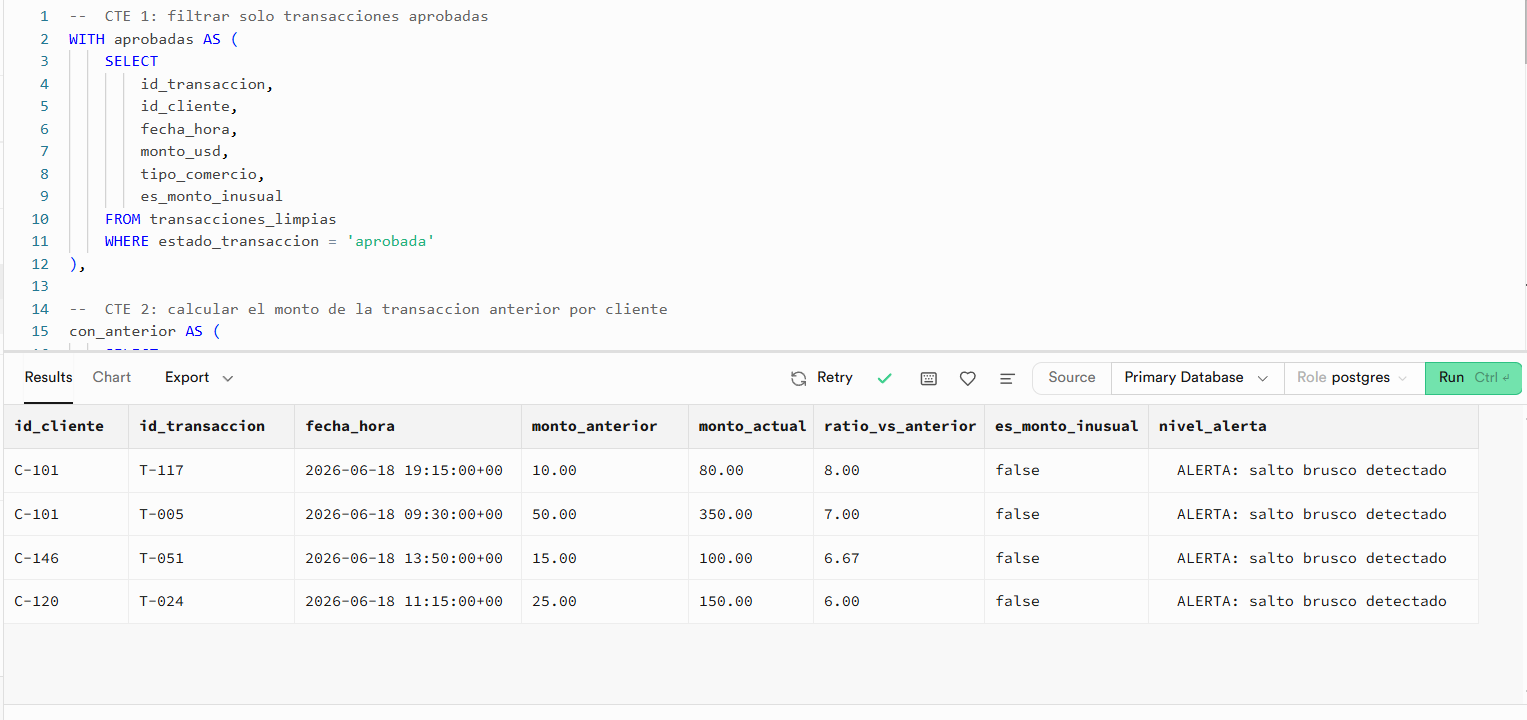
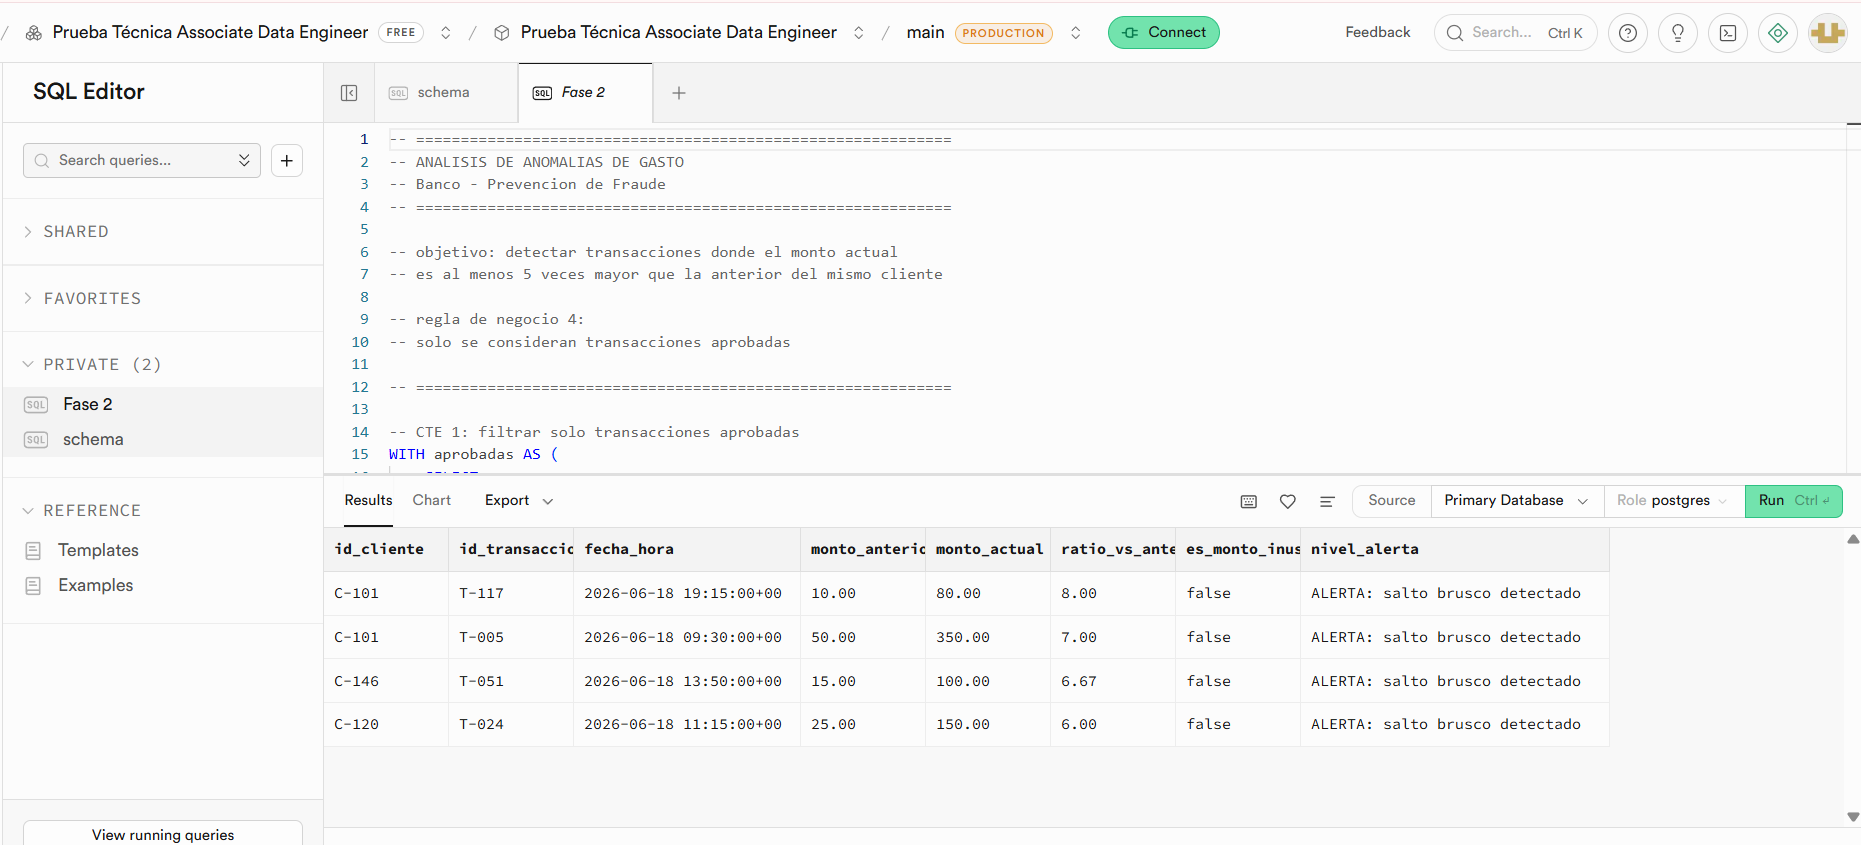
version final

diff --git a/airflow/dag_transacciones.py b/airflow/dag_transacciones.py
@@ -1,111 +1,74 @@
 """
 dag_transacciones.py
-────────────────────
-DAG de Apache Airflow que orquesta el pipeline diario de detección
-de anomalías de gasto del área de prevención de fraude.
-
-Programación: todos los días a las 11:30 PM (23:30)
-Dependencia estricta: la carga a la BD y la consulta SQL
-solo se ejecutan si la transformación Python finalizó con éxito.
+--------------------
+DAG de Apache Airflow para pipeline de fraude
 """
 
-from datetime import datetime, timedelta
+from datetime import datetime, timedelta  # imports de tiempo y retries
 
-from airflow import DAG
-from airflow.operators.python import PythonOperator
-from airflow.operators.bash import BashOperator
-from airflow.providers.postgres.operators.postgres import PostgresOperator
+from airflow import DAG  # clase principal del DAG
+from airflow.operators.bash import BashOperator  # operador para comandos bash
+from airflow.providers.postgres.operators.postgres import PostgresOperator  # operador SQL en postgres
 
 
-# ── Argumentos por defecto del DAG ────────────────────────────────────────────
+# configuracion general del DAG
 default_args = {
-    "owner": "data_engineering",
-    "depends_on_past": False,                      # no depende de ejecuciones anteriores
-    "email": ["[email redacted]"],
-    "email_on_failure": True,                      # notificar si falla
-    "email_on_retry": False,
-    "retries": 2,                                  # reintentar 2 veces ante fallo
-    "retry_delay": timedelta(minutes=5),           # esperar 5 min entre reintentos
-    "execution_timeout": timedelta(minutes=30),    # máximo 30 min por tarea
+    "owner": "data_engineering",  # propietario del pipeline
+    "depends_on_past": False,  # no depende de ejecuciones anteriores
+    "email": ["[email redacted]"],  # correo de alertas
+    "email_on_failure": True,  # notifica si falla
+    "email_on_retry": False,  # no notifica en reintentos
+    "retries": 2,  # numero de reintentos
+    "retry_delay": timedelta(minutes=5),  # tiempo entre reintentos
+    "execution_timeout": timedelta(minutes=30),  # timeout de tarea
 }
 
 
-# ── Definición del DAG ─────────────────────────────────────────────────────────
+# definicion del DAG principal
 with DAG(
-    dag_id="pipeline_fraude_diario",
-    description="Pipeline ETL diario: CSV crudo → limpieza → Supabase → análisis de anomalías",
-    schedule="30 23 * * *",                        # 23:30 todos los días
-    start_date=datetime(2026, 1, 1),
-    catchup=False,                                 # no ejecutar fechas pasadas
-    tags=["fraude", "etl", "diario"],
-    default_args=default_args,
+    dag_id="pipeline_fraude_diario",  # id del dag
+    description="Pipeline ETL diario de fraude",  # descripcion
+    schedule="30 23 * * *",  # ejecucion diaria 23:30
+    start_date=datetime(2026, 1, 1),  # fecha inicio
+    catchup=False,  # no ejecutar datos historicos
+    default_args=default_args,  # argumentos generales
+    tags=["fraude", "etl"],  # etiquetas del dag
 ) as dag:
 
-    # ── TAREA 1: Descargar / verificar que el CSV esté disponible ─────────────
+    # tarea 1: validar existencia del archivo csv
     verificar_csv = BashOperator(
-        task_id="verificar_archivo_csv",
-        bash_command=(
-            "FILE=/opt/airflow/fraude_pipeline/data/transacciones_diarias.csv; "
-            "if [ ! -f \"$FILE\" ]; then "
-            "  echo 'ERROR: Archivo no encontrado: $FILE'; exit 1; "
-            "else "
-            "  echo \"Archivo encontrado: $(wc -l < $FILE) líneas.\"; "
-            "fi"
-        ),
+        task_id="verificar_archivo_csv",  # id de tarea
+        bash_command="""
+        FILE=data/transacciones_diarias.csv  # ruta del archivo
+
+        if [ ! -f "$FILE" ]; then  # si no existe archivo
+            echo "ERROR archivo no encontrado"  # mensaje error
+            exit 1  # falla la tarea
+        fi
+
+        echo "archivo encontrado"  # confirma existencia
+        """,
     )
 
-    # ── TAREA 2: Transformación Python (reglas de negocio 1, 2 y 3) ──────────
-    #   Se importa la función main() del script modularizado.
-    def ejecutar_transformacion():
-        """Wrapper que importa y ejecuta el pipeline de transformación."""
-        import sys
-        sys.path.insert(0, "/opt/airflow/fraude_pipeline/src")
-        from pipeline import extraer_datos, transformar
-
-        CSV_PATH = "/opt/airflow/fraude_pipeline/data/transacciones_diarias.csv"
-        df_crudo  = extraer_datos(CSV_PATH)
-        df_limpio = transformar(df_crudo)
-
-        # Persistir el resultado en Parquet para la siguiente tarea
-        salida = "/opt/airflow/fraude_pipeline/data/transacciones_limpias.parquet"
-        df_limpio.to_parquet(salida, index=False)
-        print(f"[AIRFLOW] DataFrame limpio guardado en: {salida}")
-
-    transformacion_python = PythonOperator(
-        task_id="transformacion_python",
-        python_callable=ejecutar_transformacion,
+    # tarea 2: ejecutar transformacion del pipeline
+    transformacion_python = BashOperator(
+        task_id="transformacion_python",  # id tarea
+        bash_command="python src/pipeline.py",  # ejecuta ETL
     )
 
-    # ── TAREA 3: Carga a Supabase (PostgreSQL) ────────────────────────────────
-    def ejecutar_carga():
-        """Carga el Parquet intermedio a Supabase."""
-        import sys, pandas as pd
-        sys.path.insert(0, "/opt/airflow/fraude_pipeline/src")
-        from cargar_supabase import conectar_supabase, cargar_a_supabase
-
-        salida = "/opt/airflow/fraude_pipeline/data/transacciones_limpias.parquet"
-        df_limpio = pd.read_parquet(salida)
-
-        supabase = conectar_supabase()
-        cargar_a_supabase(df_limpio, supabase)
-
-    carga_supabase = PythonOperator(
-        task_id="carga_supabase",
-        python_callable=ejecutar_carga,
+    # tarea 3: cargar datos a supabase
+    carga_supabase = BashOperator(
+        task_id="carga_supabase",  # id tarea
+        bash_command="python src/cargar_supabase.py",  # carga postgres
     )
 
-    # ── TAREA 4: Consulta SQL analítica de anomalías ──────────────────────────
-    #   Usa la conexión "supabase_postgres" configurada en Airflow Connections.
+    # tarea 4: ejecutar consulta de anomalas en sql
     analisis_anomalias = PostgresOperator(
-        task_id="analisis_anomalias_sql",
-        postgres_conn_id="supabase_postgres",          # configurar en Airflow UI
-        sql="sql/consulta_anomalias.sql",              # relativo al folder airflow/dags/
-        autocommit=True,
+        task_id="analisis_anomalias_sql",  # id tarea
+        postgres_conn_id="supabase_postgres",  # conexion airflow
+        sql="sql/consulta_anomalias.sql",  # archivo sql
+        autocommit=True,  # commit automatico
     )
 
-    # ── DEPENDENCIAS: define el orden de ejecución ────────────────────────────
-    #
-    #   verificar_csv → transformacion_python → carga_supabase → analisis_anomalias
-    #
-    #   Si cualquier tarea falla, las siguientes NO se ejecutan.
-    verificar_csv >> transformacion_python >> carga_supabase >> analisis_anomalias
+    # orden de ejecucion del pipeline
+    verificar_csv >> transformacion_python >> carga_supabase >> analisis_anomalias  # flujo secuencial

diff --git a/src/pipeline.py b/src/pipeline.py
@@ -1,12 +1,9 @@
 """
 pipeline.py
 ───────────
-Pipeline de Datos - Prevención de Fraude
+Pipeline de Datos - Prevencion de Fraude
 Banco: Detección de Anomalías de Gasto
 
-Descripcion: Script modularizado que carga el CSV crudo, aplica
-             las reglas de negocio (1, 2 y 3) y persiste el resultado
-             en Parquet para que la fase de carga lo pueda cargar
 """
 
 import os
@@ -17,23 +14,47 @@ from dotenv import load_dotenv
 load_dotenv()
 
 CSV_PATH = os.getenv("CSV_PATH", "data/transacciones_diarias.csv")
+MONTO_INUSUAL = 1500
+
+COLUMNAS_REQUERIDAS = [
+    "id_transaccion",
+    "id_cliente",
+    "fecha_hora",
+    "monto_usd",
+    "tipo_comercio",
+    "estado_transaccion"
+]
 if not os.path.exists(CSV_PATH):
     raise FileNotFoundError(f"No se encontro el archivo: {CSV_PATH}")
 
 # FASE 1 – EXTRACCION
-
 
 def extraer_datos(ruta_csv: str) -> pd.DataFrame:
     """
     Carga el archivo CSV crudo y devuelve un DataFrame.
     Convierte fecha_hora a tipo datetime para operaciones ordenadas.
     """
-    print(f"[EXTRACCIÓN] Leyendo archivo: {ruta_csv}")
-    df = pd.read_csv(ruta_csv)
-    df["fecha_hora"] = pd.to_datetime(df["fecha_hora"])
-    print(f"  → {len(df)} registros cargados.")
-    return df
 
+    print(f"[EXTRACCIÓN] Leyendo archivo: {ruta_csv}")
+
+    df = pd.read_csv(ruta_csv)
+
+    faltantes = [
+        columna
+        for columna in COLUMNAS_REQUERIDAS
+        if columna not in df.columns
+    ]
+
+    if faltantes:
+        raise ValueError(
+            f"Columnas faltantes en el archivo: {faltantes}"
+        )
+
+    df["fecha_hora"] = pd.to_datetime(df["fecha_hora"])
+
+    print(f"  → {len(df)} registros cargados.")
+
+    return df
 
 # FASE 2 – TRANSFORMACION (Aqui se aplocan las reglas de Negocio 1, 2 y 3)
 
@@ -43,7 +64,10 @@ def regla_1_eliminar_duplicados(df: pd.DataFrame) -> pd.DataFrame:
     Se conserva la primera ocurrencia y se descartan las demas.
     """
     antes = len(df)
-    df = df.drop_duplicates(subset=["id_transaccion"], keep="first")
+    df = df.drop_duplicates(
+    subset=["id_transaccion"],
+    keep="first"
+    ).copy()
     despues = len(df)
     print(f"[REGLA 1] Duplicados eliminados: {antes - despues} filas. Quedan {despues}.")
     return df
@@ -66,7 +90,7 @@ def regla_3_clasificar_monto_inusual(df: pd.DataFrame) -> pd.DataFrame:
     En cualquier otro caso es False.
     """
     df["es_monto_inusual"] = (
-        (df["monto_usd"] > 1500) & (df["tipo_comercio"] == "internacional")
+        (df["monto_usd"] > MONTO_INUSUAL) & (df["tipo_comercio"] == "internacional")
     )
     inusuales = df["es_monto_inusual"].sum()
     print(f"[REGLA 3] Transacciones marcadas como inusuales: {inusuales}.")

diff --git a/src/cargar_supabase.py b/src/cargar_supabase.py
@@ -1,6 +1,6 @@
 """
 cargar_supabase.py
-──────────────────
+
 
 Para cargar Subpabase hacemos uso del archivo .env con:
     SUPABASE_URL=https://<project>.supabase.co
@@ -12,7 +12,7 @@ import pandas as pd
 from supabase import create_client, Client
 from dotenv import load_dotenv
 
-# ─── Cargamos las variables de entorno ───────────────────────────────────────────────
+#  Cargamos las variables de entorno 
 load_dotenv()
 
 SUPABASE_URL = os.getenv("SUPABASE_URL")